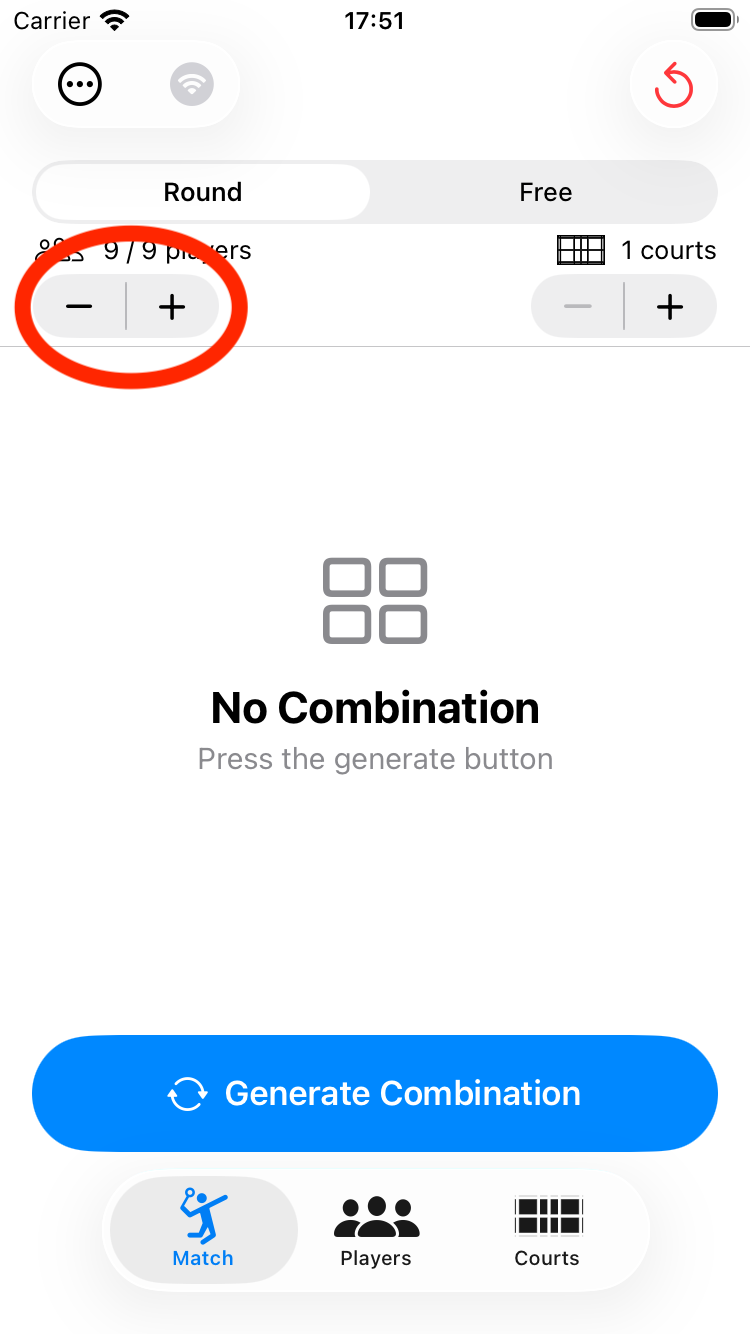
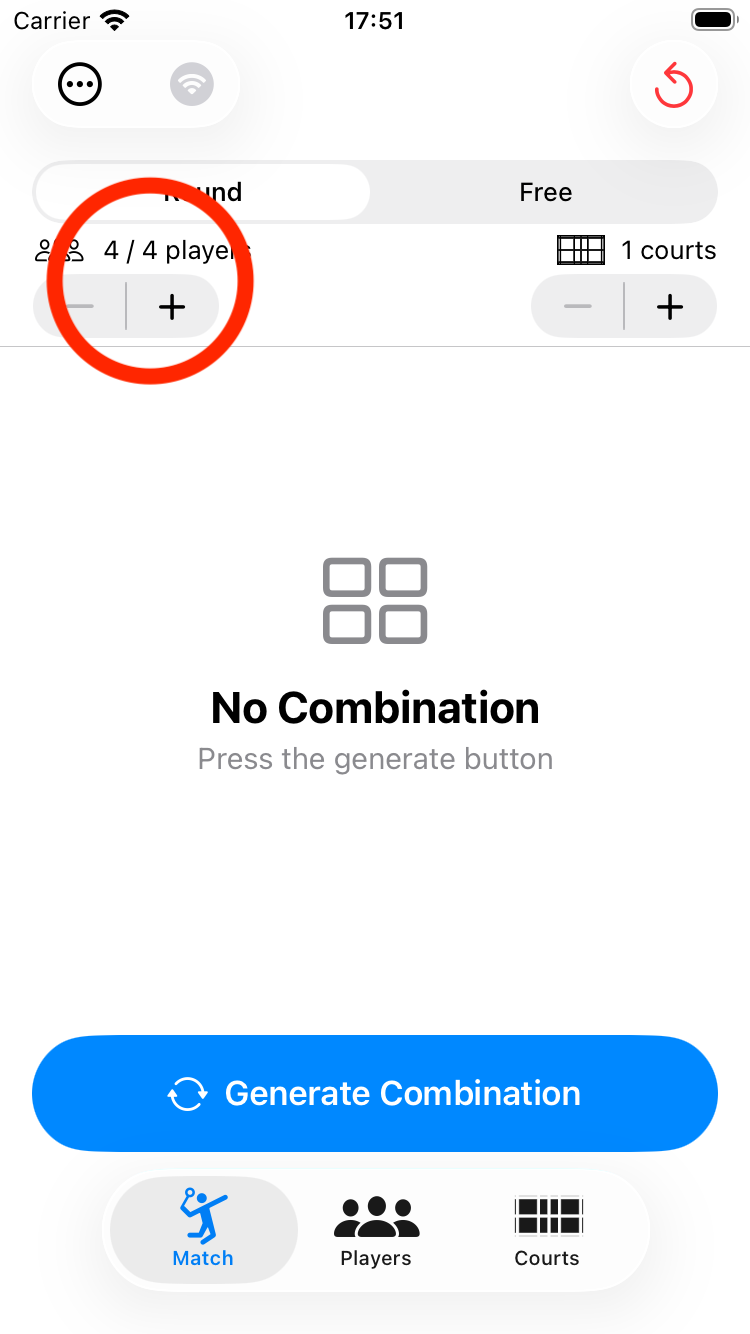
使ってみよう！を初期値（4プレイヤー・1コート）に統一
- スクリーンショットを初期状態のものに差し替え
- 文章も「4 / 4 players」「1 courts」の説明に修正

Changed region(s): [[0.0, 0.1229, 0.3373, 0.3073], [0.276, 0.2459, 0.3067, 0.2766]]

diff --git a/getting-started.html b/getting-started.html
@@ -36,12 +36,12 @@
 <div class="ss"><img src="images/game-empty.png" alt="Match タブ・初期状態"></div>
 
 <h2 id="player-count">1. プレイヤー数を設定する</h2>
-<p><strong>Match</strong> タブの上部左側に「9 / 9 players」と表示されています。この <code>−</code> / <code>+</code> ボタンをタップするだけで、プレイヤー数を増減できます。</p>
+<p><strong>Match</strong> タブの上部左側に「4 / 4 players」と表示されています。この <code>−</code> / <code>+</code> ボタンをタップするだけで、プレイヤー数を増減できます。</p>
 <div class="ss"><img src="images/game-players.png" alt="Match タブ・プレイヤー数設定"></div>
-<p>初期状態では「1」「2」「3」…という番号が名前として割り当てられています。詳しく名前を変えたい場合は、<strong>Players</strong> タブで編集できます。</p>
+<p>初期状態では「1」「2」「3」「4」という番号が名前として割り当てられています。詳しく名前を変えたい場合は、<strong>Players</strong> タブで編集できます。</p>
 
 <h2 id="court-count">2. コート数を設定する</h2>
-<p><strong>Match</strong> タブの上部右側に「2 courts」と表示されています。この <code>−</code> / <code>+</code> ボタンをタップするだけで、コート数を増減できます。</p>
+<p><strong>Match</strong> タブの上部右側に「1 courts」と表示されています。この <code>−</code> / <code>+</code> ボタンをタップするだけで、コート数を増減できます。</p>
 <div class="ss"><img src="images/game-courts.png" alt="Match タブ・コート数設定"></div>
 <p>詳しくコート設定（名前やレベル）を変えたい場合は、<strong>Courts</strong> タブで調整できます。</p>
 
